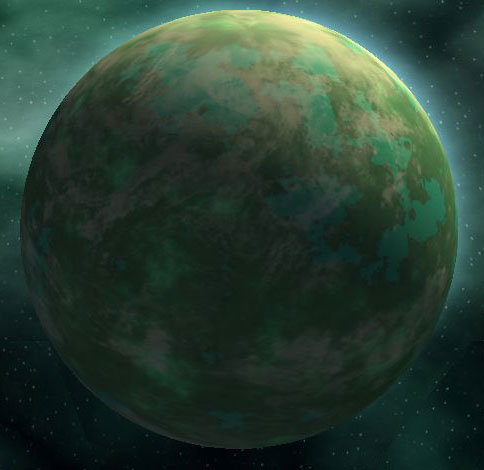
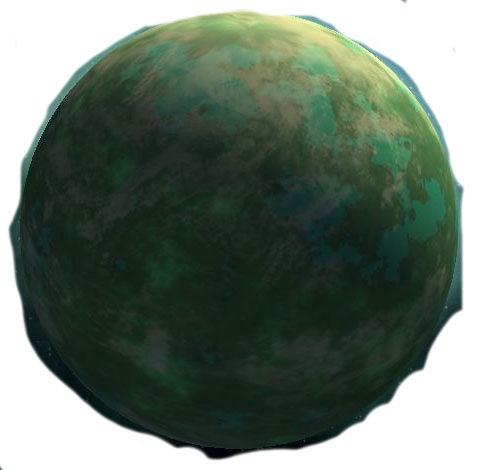
added pics of planets and styled, created header

diff --git a/js/controller.js b/js/controller.js
@@ -8,24 +8,34 @@ angular.module('swapiApp')
                     for (var i = 0; i < response.length; i++) {
                         if (response[i].name === "Hoth") {
                           response[i].landImg = 'https://s-media-cache-ak0.pinimg.com/736x/2e/63/f8/2e63f8c62e5eac19470109b84f9e08a0.jpg';
+                          response[i].planetImg = 'http://vignette2.wikia.nocookie.net/swtor/images/d/d1/Hoth.jpg/revision/latest?cb=20100720144834';
                         } else if (response[i].name === "Alderaan") {
                             response[i].landImg = './images/planets/Alderaan-landscape.jpg';
+                            response[i].planetImg = 'http://vignette1.wikia.nocookie.net/starwars/images/4/4a/Alderaan.jpg/revision/latest?cb=20061211013805';
                           } else if (response[i].name === "Yavin IV") {
-                            response[i].landImg = './images/planets/Yavin4-landscape.jpeg';
+                            response[i].landImg = 'http://a.dilcdn.com/bl/wp-content/uploads/sites/6/2014/09/Image-1-2400x1200-562320997426.jpg';
+                            response[i].planetImg = 'https://upload.wikimedia.org/wikipedia/en/thumb/6/64/Yavin-4.jpg/250px-Yavin-4.jpg';
                           } else if (response[i].name === "Dagobah") {
-                            response[i].landImg = 'http://img.lum.dolimg.com/v1/images/Dagobah_890df592.jpeg?region=391%2C39%2C830%2C467&width=768';
+                            response[i].landImg = 'http://www.starwarsnewsnet.com/wp-content/uploads/2014/04/Dagobah11.jpg';
+                            response[i].planetImg = 'https://s-media-cache-ak0.pinimg.com/736x/72/76/16/727616fdc990d43935ce284c695000d0.jpg';
                           } else if (response[i].name === "Bespin") {
                             response[i].landImg = 'http://img03.deviantart.net/5a73/i/2015/097/9/5/star_wars___bespin_cloud_city_by_mirko77-d8ot5or.jpg';
+                            response[i].planetImg = 'http://vignette1.wikia.nocookie.net/starwars/images/8/82/Bespin_space.jpg/revision/latest?cb=20071218151245';
                           } else if (response[i].name === "Endor") {
                             response[i].landImg = 'http://www.tdguild.com/Images/Completed/mcq-endor3.jpg';
+                            response[i].planetImg = 'http://vignette2.wikia.nocookie.net/starwars/images/6/61/Moon_of_Endor_NEGAS.jpg/revision/latest?cb=20061115194719';
                           } else if (response[i].name === "Naboo") {
-                            response[i].landImg = 'http://vignette4.wikia.nocookie.net/lucasfilm/images/5/50/Naboo.jpg/revision/latest?cb=20131001173612';
+                            response[i].landImg = 'http://vignette2.wikia.nocookie.net/starwars/images/e/eb/Theedroyalpalace.png/revision/latest?cb=20130719122716';
+                            response[i].planetImg = 'https://upload.wikimedia.org/wikipedia/en/6/60/Alderaan250ppx.PNG';
                           } else if (response[i].name === "Coruscant") {
-                            response[i].landImg = 'http://america.pink/images/1/0/8/9/4/4/5/en/2-coruscant.jpg';
+                            response[i].landImg = 'http://cdn3.sbnation.com/assets/3475177/GM_E3_Underworld_Vista_Big.jpg';
+                            response[i].planetImg = 'http://vignette1.wikia.nocookie.net/starwars/images/1/16/Coruscant-EotE.jpg/revision/latest?cb=20130908205521';
                           } else if (response[i].name === "Kamino") {
-                            response[i].landImg = 'http://www.starwars-chronicles.com/images/Locations_Large/Kamino_Tipoca_City.JPG';
+                            response[i].landImg = 'http://vignette3.wikia.nocookie.net/starwars/images/2/2c/TipocaCity-CC.png/revision/latest?cb=20130505022521';
+                            response[i].planetImg = 'http://vignette2.wikia.nocookie.net/swfanon/images/6/6b/Kamino_planet.jpg/revision/20070218002840';
                           } else if (response[i].name === "Geonosis") {
                             response[i].landImg = 'http://img.lum.dolimg.com/v1/images/databank_geonosis_01_169_1d04e086.jpeg?region=0%2C0%2C1560%2C878&width=768';
+                            response[i].planetImg = 'http://41.media.tumblr.com/d57f1cdcd9a17ea97c35023784dae89b/tumblr_no39yl40x51utlj9oo1_1280.jpg';
                           } else {
                             response[i].landImg = './images/planets/NotFound.jpg';
                           }

diff --git a/views/planets.html b/views/planets.html
@@ -1,0 +1,65 @@
+<div class="header">
+    <span class="planetLinks">
+    <ul>
+    <li class="planets">
+      <a href="" ng-audio="./music/saberon.mp3" ng-click="scrollTo('Alderaan')" start="0.2" volume="0.5">Alderaan</a>
+    </li>
+    <li class="planets">
+      <a href="" ng-audio="./music/saberon.mp3" ng-click="scrollTo('Yavin IV')" start="0.2" volume="0.5">Yavin IV</a>
+    </li>
+    <li class="planets">
+      <a href="" ng-audio="./music/saberon.mp3" ng-click="scrollTo('Hoth')" start="0.2" volume="0.5">Hoth</a>
+    </li>
+    <li class="planets">
+      <a href="" ng-audio="./music/saberon.mp3" ng-click="scrollTo('Dagobah')" start="0.2" volume="0.5">Dagobah</a>
+    </li>
+    <li class="planets">
+      <a href="" ng-audio="./music/saberon.mp3" ng-click="scrollTo('Bespin')" start="0.2" volume="0.5">Bespin</a>
+    </li>
+    <li class="planets">
+      <a href="" ng-audio="./music/saberon.mp3" ng-click="scrollTo('Endor')" start="0.2" volume="0.5">Endor</a>
+    </li>
+    <li class="planets">
+      <a href="" ng-audio="./music/saberon.mp3" ng-click="scrollTo('Naboo')" start="0.2" volume="0.5">Naboo</a>
+    </li>
+    <li class="planets">
+      <a href="" ng-audio="./music/saberon.mp3" ng-click="scrollTo('Coruscant')" start="0.2" volume="0.5">Coruscant</a>
+    </li>
+    <li class="planets">
+      <a href="" ng-audio="./music/saberon.mp3" ng-click="scrollTo('Kamino')" start="0.2" volume="0.5">Kamino</a>
+    </li>
+    <li class="planets">
+      <a href="" ng-audio="./music/saberon.mp3" ng-click="scrollTo('Geonosis')" start="0.2" volume="0.5">Geonosis</a>
+    </li>
+  </ul>
+</span>
+</div>
+
+<div class="container">
+<h1>PLanets of</h1>
+<a ui-sref="home">
+    <div class="swLogo"></div>
+</a>
+<div class="planetCard" ng-repeat="planet in planets">
+    <a name="{{planet.name}}"></a>
+    <div class="landscape">
+        <h1>{{planet.name}}</h1>
+        <img class="landscapeImg" ng-src="{{planet.landImg}}" alt="" />
+    </div>
+    <div class="infoTab">
+        <div class="planetSummary">
+            <p>{{planet.summary}}</p>
+        </div>
+        <div class="planetStats">
+            <ul>
+                <li>Climate: {{planet.climate}}</li>
+                <li>Terrain: {{planet.terrain}}</li>
+                <li>Surface Water: {{planet.surface_water}}</li>
+                <li>Diameter: {{planet.diameter}}</li>
+                <li>Planet Rotation Perion:{{planet.rotation_period}} </li>
+            </ul>
+        </div>
+        <img ng-src="{{planet.planetImg}}" alt="" class="planetImg" />
+    </div>
+</div>
+</div>

diff --git a/home.html b/home.html
@@ -2,10 +2,12 @@
 <html ng-app="swapiApp">
     <head>
         <meta charset="utf-8">
+        <meta name="viewport" content="width=device-width, initial-scale=1">
         <title>Star Wars Planets</title>
         <link rel="stylesheet" href="style.css">
     </head>
     <body ng-controller="planetsCtrl">
+        <div ui-view> </div>
         <div class="header">
             <span class="planetLinks">
             <ul>
@@ -43,25 +45,34 @@
         </span>
     </div>
 
-        <div class="container">
-            <h1>Planets of</h1>
+    <div class="container">
+        <h1>PLanets of</h1>
+        <a ui-sref="home">
             <div class="swLogo"></div>
-            <div class="planetCard" ng-repeat="planet in planets">
-                <a name="{{planet.name}}"></a>
-                <div class="landscape">
-                    <h1>{{planet.name}}</h1>
+        </a>
+        <div class="planetCard" ng-repeat="planet in planets">
+            <a name="{{planet.name}}"></a>
+            <div class="landscape">
+                <h1>{{planet.name}}</h1>
+                <img class="landscapeImg" ng-src="{{planet.landImg}}" alt="" />
+            </div>
+            <div class="infoTab">
+                <div class="planetSummary">
                     <p>{{planet.summary}}</p>
-                    <img ng-src="{{planet.landImg}}" alt="" />
                 </div>
-                <ul>
-                <li>Climate: {{planet.climate}}</li>
-                <li>Terrain: {{planet.terrain}}</li>
-                <li>Surface Water: {{planet.surface_water}}</li>
-                <li>Diameter: {{planet.diameter}}</li>
-                <li>Planet Rotation Perion:{{planet.rotation_period}}</li>
-                </ul>
+                <div class="planetStats">
+                    <ul>
+                        <li>Climate: {{planet.climate}}</li>
+                        <li>Terrain: {{planet.terrain}}</li>
+                        <li>Surface Water: {{planet.surface_water}}%</li>
+                        <li>Diameter: {{planet.diameter}} miles</li>
+                        <li>Planet Rotation Perion: {{planet.rotation_period}} hours</li>
+                    </ul>
+                </div>
+                <img ng-src="{{planet.planetImg}}" alt="" class="planetImg" />
             </div>
         </div>
+    </div>
 
 
 

diff --git a/style.css b/style.css
@@ -1,13 +1,58 @@
+html {
+  box-sizing: border-box;
+}
+*, *:before, *:after {
+  box-sizing: inherit;
+}
+
+
+
 body {
+    background-image: url("https://i.ytimg.com/vi/JquobII5VjA/maxresdefault.jpg");
+    padding: 0;
+    margin: 0;
+}
+
+.header {
+    width: 100%;
+    height: auto;
     display: flex;
-    justify-content: center;
-    background-image: url("http://wallpapercave.com/wp/BXc1IXP.jpg");
+    justify-content: space-between;
+    text-align: center;
+    position: fixed;
+    z-index: 3;
+    background: gray;
+    background-image: url("https://i.ytimg.com/vi/JquobII5VjA/maxresdefault.jpg");
+    border-bottom: 5px solid gray;
+    top: 0;
+
+}
+
+.header li {
+    display: inline;
+    margin-right: 30px;
+    font-size: 25px;
+}
+
+.header a {
+    text-decoration: none;
+    color: #FFE421;
+}
+
+.planetsHeader {
+    width: 100%;
+    height: 100px;
+    background: teal;
+    position: fixed;
 }
 
 .container {
-    width: 80%;
+    width: 900px;
     height: auto;
     text-align: center;
+    margin-left: auto;
+    margin-right: auto;
+
 }
 
 .container h1 {
@@ -20,6 +65,7 @@ body {
     font-size: 20px;
     font-weight: 900;
     color: #FFE421;
+
 }
 
 /*.planetCard {
@@ -32,6 +78,15 @@ body {
     width: 100%;
 }
 
+.infoTab {
+    width: 90%;
+    height: auto;
+    /*background: #191603;*/
+    margin-left: auto;
+    margin-right: auto;
+    position: relative;
+}
+
 .swLogo {
     width: 1024px;
     height: 768px;
@@ -39,11 +94,36 @@ body {
     margin-left: auto;
     margin-right: auto;
     background-image: url("images/logo.png");
-    /*background-image: url("http://hellogiggles.com/wp-content/uploads/2015/10/18/6810783-star-wars-logo.jpg");*/
 }
 
-.header {
-    width: 588px;
+.test {
+    width: 100%;
+    height: 300px;
+    background: teal;
+}
+
+.landscapeImg {
+    width: 90%;
+    height: 600px;
+}
+
+.planetSummary {
+    width: 100%;
+    height: auto;
+}
+
+.planetStats {
+    width: 40%;
     height: 150px;
-    flex: display;
+    margin-left: auto;
+    margin-right: auto;
+    display: block;
+}
+
+.planetImg {
+    width: 150px;
+    height: 150px;
+    position: absolute;
+    bottom: 0;
+    right: 75px;
 }

diff --git a/js/app.js b/js/app.js
@@ -1,1 +1,16 @@
-angular.module("swapiApp", []);
+angular.module("swapiApp", ["ui.router"])
+    .config(function($stateProvider) {
+
+
+    $stateProvider
+    .state("home", {
+        url: "/",
+        templateUrl: "views/home.html"
+    })
+
+    .state("planets", {
+        url: "/planets",
+        templateUrl: "views/planets.html"
+    });
+
+});
